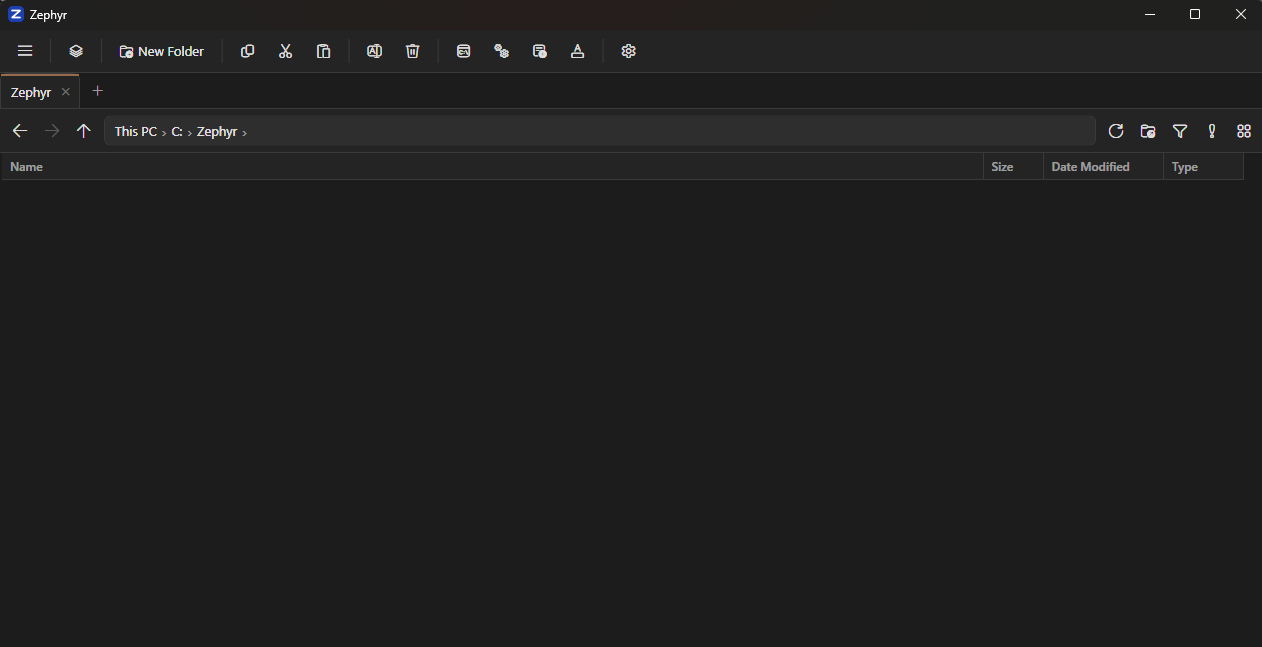
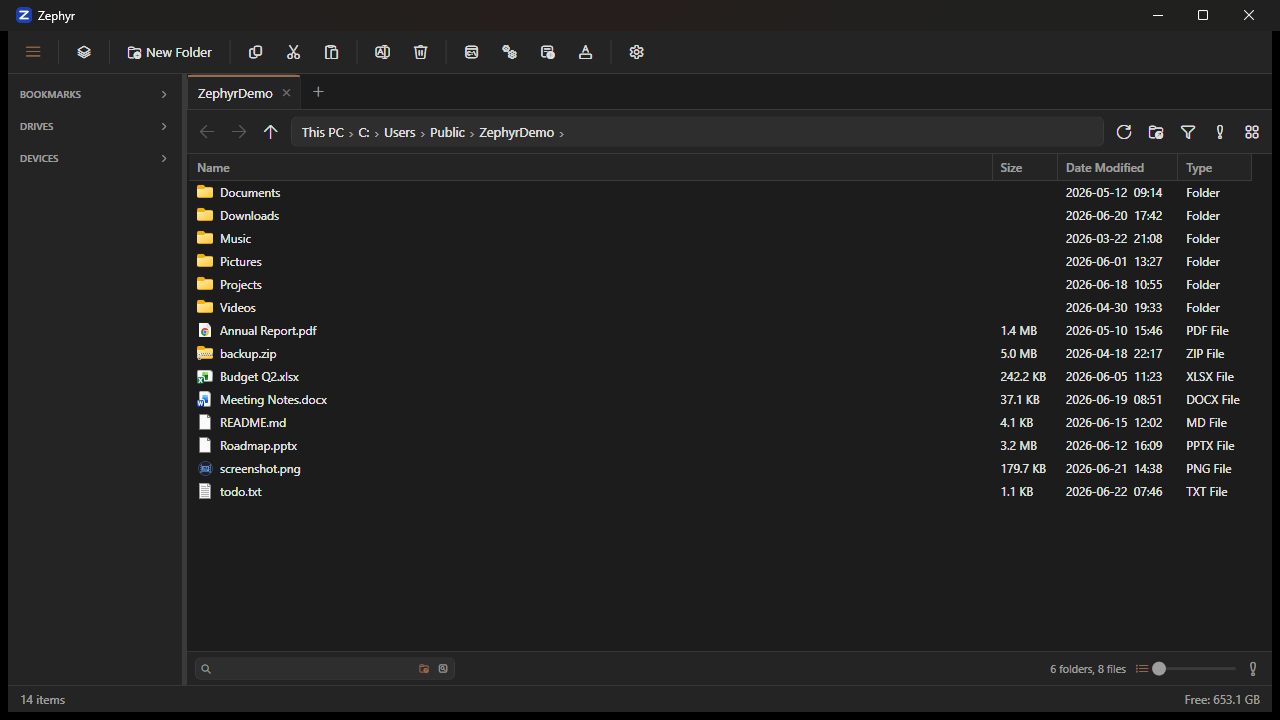
Polish README: pitch line, requirements, real screenshot
Add a one-line pitch, a Requirements section, and replace the empty
placeholder screenshot with a populated demo capture (clean breadcrumb,
collapsed sidebar sections, no personal data).

diff --git a/README.md b/README.md
@@ -1,6 +1,6 @@
 # Zephyr
 
-A modern file manager for Windows 11, built with C# and WPF on .NET 10. Zephyr pairs a clean, fully theme-matched interface with a fast, tabbed browsing experience.
+Zephyr is a fast, keyboard-friendly file manager for Windows 11 — with tabs, split-pane browsing, built-in archive support, and folder locking, all wrapped in a clean, theme-matched interface that actually feels like part of the OS.
 
 <p align="center">
   <img src="ZephyrLook.png" alt="The Zephyr file manager window with its dark theme" width="850">
@@ -28,9 +28,13 @@ A modern file manager for Windows 11, built with C# and WPF on .NET 10. Zephyr p
 - Archives: [SharpCompress](https://github.com/adamhathcock/sharpcompress) (read) + [SharpZipLib](https://github.com/icsharpcode/SharpZipLib) (encrypted-zip write)
 - PDF rendering: [PdfPig](https://github.com/UglyToad/PdfPig)
 
-## Building
+## Requirements
 
-Requires the [.NET 10 SDK](https://dotnet.microsoft.com/download) on Windows 11.
+- **Windows 11** (build 22621 / 22H2 or later)
+- **To run:** nothing extra — release builds are self-contained and bundle the .NET runtime
+- **To build from source:** the [.NET 10 SDK](https://dotnet.microsoft.com/download)
+
+## Building
 
 ```sh
 dotnet build -c Release
